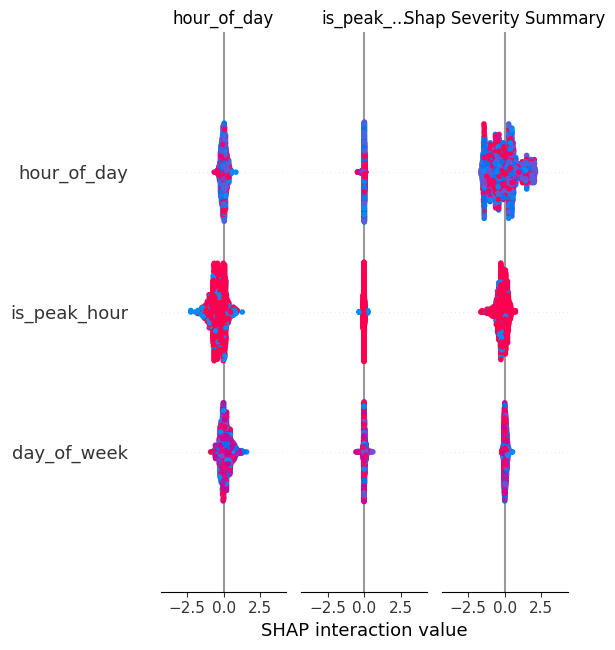
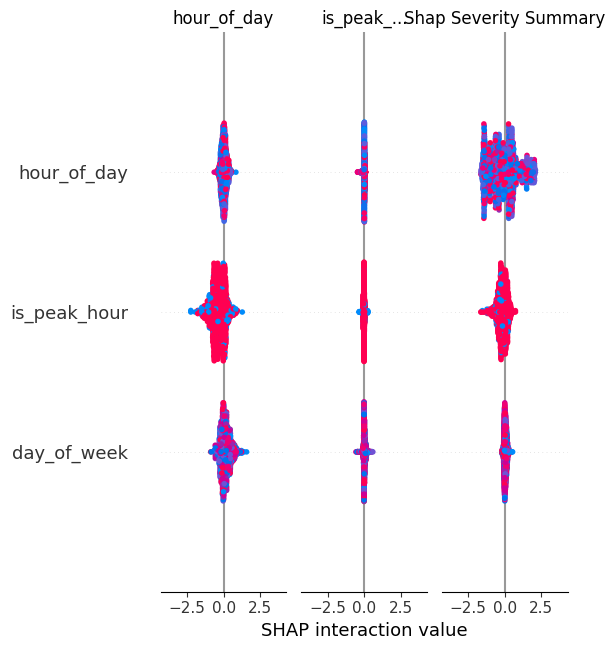
Stamp library versions into models; warn on version skew at load
Closes the last engineering-hygiene item: a pickled sklearn/xgboost model can silently break under a different library version. Each model payload now records its scikit-learn/xgboost/numpy (+python/pandas) versions; check_lib_versions() compares them to the runtime, and the API /health endpoint plus the dashboard surface a non-fatal warning on skew. Retrained to embed the versions (metrics unchanged). Adds 4 tests (19 total).

diff --git a/src/model_training.py b/src/model_training.py
@@ -9,11 +9,14 @@ Outputs (saved to models/):
 """
 
 import logging
+import sys
 from pathlib import Path
 
 import joblib
 import numpy as np
 import pandas as pd
+import sklearn
+import xgboost
 from sklearn.calibration import CalibratedClassifierCV
 from sklearn.metrics import (
     average_precision_score,
@@ -28,6 +31,46 @@ from sklearn.utils.class_weight import compute_sample_weight
 from xgboost import XGBClassifier, XGBRegressor
 
 logger = logging.getLogger(__name__)
+
+# ---------------------------------------------------------------------------
+# Reproducibility — record the library versions a model was trained with, so a
+# version-skewed environment (which can silently break or mis-load a pickle) is
+# detected rather than failing mysteriously. Stamped into every model payload;
+# checked at load time (API /health and the dashboard).
+# ---------------------------------------------------------------------------
+
+# Libraries whose version actually governs pickle/predict compatibility.
+_COMPAT_LIBS = ("scikit-learn", "xgboost", "numpy")
+
+
+def lib_versions() -> dict:
+    """Versions of the libraries that matter for model (de)serialisation."""
+    return {
+        "python": sys.version.split()[0],
+        "scikit-learn": sklearn.__version__,
+        "xgboost": xgboost.__version__,
+        "numpy": np.__version__,
+        "pandas": pd.__version__,
+        "joblib": joblib.__version__,
+    }
+
+
+def check_lib_versions(payload: dict) -> list[str]:
+    """
+    Return human-readable warnings for any compatibility-critical library whose
+    runtime version differs from what the model was trained with. Empty list
+    means the environment matches (or the model predates version stamping).
+    """
+    trained = (payload or {}).get("lib_versions") or {}
+    if not trained:
+        return ["model has no recorded training versions — retrain to embed them"]
+    current = lib_versions()
+    return [
+        f"{lib}: trained on {trained[lib]}, running {current[lib]}"
+        for lib in _COMPAT_LIBS
+        if trained.get(lib) and current.get(lib) and trained[lib] != current[lib]
+    ]
+
 
 # ---------------------------------------------------------------------------
 # Constants
@@ -203,6 +246,7 @@ def train_severity_classifier(df: pd.DataFrame, models_dir: Path) -> XGBClassifi
         "baseline_accuracy": baseline,
         "cv_accuracy_mean": float(cv_scores.mean()),   # optimistic, reference only
         "cv_accuracy_std":  float(cv_scores.std()),
+        "lib_versions":     lib_versions(),
     }
     joblib.dump(payload, models_dir / "severity_classifier.pkl")
     logger.info("Saved severity_classifier.pkl")
@@ -270,6 +314,7 @@ def train_duration_predictor(df: pd.DataFrame, models_dir: Path) -> XGBRegressor
         "baseline_mae": float(baseline_mae),
         "baseline_median": train_median,
         "lift_vs_baseline": float(lift),
+        "lib_versions": lib_versions(),
     }
     joblib.dump(payload, models_dir / "duration_predictor.pkl")
     logger.info("Saved duration_predictor.pkl")
@@ -356,6 +401,7 @@ def train_closure_predictor(df: pd.DataFrame, models_dir: Path):
         "recall":     recall,
         "precision":  precision,
         "threshold":  0.5,
+        "lib_versions": lib_versions(),
     }
     joblib.dump(payload, models_dir / "closure_predictor.pkl")
     logger.info("Saved closure_predictor.pkl")

diff --git a/tests/test_model_versioning.py b/tests/test_model_versioning.py
@@ -1,0 +1,36 @@
+"""
+test_model_versioning.py — Guard the model reproducibility check.
+
+Asserts that the version-compatibility check flags a sklearn/xgboost/numpy skew
+between a model's training environment and the runtime, matches cleanly when they
+agree, and is explicit when a model predates version stamping.
+"""
+
+import sys
+from pathlib import Path
+
+sys.path.insert(0, str(Path(__file__).resolve().parents[1] / "src"))
+
+from model_training import check_lib_versions, lib_versions
+
+
+def test_matching_versions_produce_no_warnings():
+    payload = {"lib_versions": lib_versions()}
+    assert check_lib_versions(payload) == []
+
+
+def test_mismatch_is_flagged_for_compat_libs():
+    bad = lib_versions() | {"xgboost": "0.0.1"}
+    warns = check_lib_versions({"lib_versions": bad})
+    assert len(warns) == 1 and "xgboost" in warns[0]
+
+
+def test_noncompat_lib_drift_is_ignored():
+    # pandas isn't pickle-compat-critical, so a pandas skew must NOT warn.
+    drift = lib_versions() | {"pandas": "0.0.1"}
+    assert check_lib_versions({"lib_versions": drift}) == []
+
+
+def test_unstamped_model_is_called_out():
+    warns = check_lib_versions({})
+    assert warns and "no recorded training versions" in warns[0]

diff --git a/api/main.py b/api/main.py
@@ -33,7 +33,7 @@ from feature_engineering import (  # noqa: E402
     CAUSE_SEVERITY_WEIGHT, _SEMANTIC_MAP, _VEH_TYPE_MAP, _VEH_TYPE_ORDER,
     extract_semantic_type,
 )
-from model_training import SEVERITY_INVERSE_MAP  # noqa: E402
+from model_training import SEVERITY_INVERSE_MAP, check_lib_versions  # noqa: E402
 from outcomes_log import log_decision  # noqa: E402
 from history_features import history_features  # noqa: E402
 from resource_recommender import clearance_range, recommend  # noqa: E402
@@ -64,7 +64,15 @@ class Event(BaseModel):
 
 @app.get("/health")
 def health():
-    return {"status": "ok", "closure_model": _clo is not None}
+    # Flag any model trained under a different sklearn/xgboost/numpy than the
+    # runtime — version skew can silently break a pickled model.
+    warns = check_lib_versions(_clf) + (check_lib_versions(_clo) if _clo else [])
+    return {
+        "status": "ok",
+        "closure_model": _clo is not None,
+        "model_versions": _clf.get("lib_versions"),
+        "version_warnings": warns,
+    }
 
 
 @app.post("/event")

diff --git a/dashboard/pages/2_Predict_Event.py b/dashboard/pages/2_Predict_Event.py
@@ -24,7 +24,7 @@ from feature_engineering import (
     extract_semantic_type,
 )
 from history_features import corridor_list, history_features
-from model_training import FEATURES, SEVERITY_COLORS, SEVERITY_INVERSE_MAP
+from model_training import FEATURES, SEVERITY_COLORS, SEVERITY_INVERSE_MAP, check_lib_versions
 from resource_recommender import clearance_range
 from utils import ALL_CAUSES, ALL_ZONES, CAUSE_DISPLAY, get_nearest_station, is_peak_hour
 
@@ -67,6 +67,14 @@ clf_model = clf_pkg["model"]
 dur_model = dur_pkg["model"]
 clo_model = clo_pkg["model"] if clo_pkg else None
 all_corridors = corridor_list()
+
+# Warn (don't fail) if the models were trained under different library versions
+# than this environment — version skew can silently corrupt pickled-model output.
+_ver_warns = check_lib_versions(clf_pkg) + (check_lib_versions(clo_pkg) if clo_pkg else [])
+_ver_warns = [w for w in _ver_warns if "no recorded training versions" not in w]
+if _ver_warns:
+    st.warning("⚠️ Model/runtime library mismatch — predictions may be unreliable: "
+               + "; ".join(_ver_warns) + ". Retrain with `python src/model_training.py`.")
 
 st.info(
     "**What each input drives:** *Cause / description / vehicle / time* feed the "

diff --git a/README.md b/README.md
@@ -129,7 +129,8 @@ smartflow/
 │   ├── test_history_features.py # Asserts inference uses real history, not a constant
 │   ├── test_roster_optimizer.py # Asserts allocation conserves demand & triages by priority
 │   ├── test_event_planner.py  # Asserts confidence backoff & obstruction handling
-│   └── test_learning_loop.py  # Asserts the loop reads outcomes back & records drift
+│   ├── test_learning_loop.py  # Asserts the loop reads outcomes back & records drift
+│   └── test_model_versioning.py # Asserts version-skew detection for pickled models
 ├── data/
 │   ├── raw/                   # Place events.csv here
 │   └── processed/             # Auto-generated outputs
@@ -198,7 +199,7 @@ docker run -p 8501:8501 smartflow      # → http://localhost:8501
 ### Tests & CI
 
 ```bash
-pytest tests/        # 15 tests: leakage, history lookup, optimizer, planner, learning loop
+pytest tests/        # 19 tests: leakage, history lookup, optimizer, planner, learning loop, versioning
 ```
 
 [GitHub Actions](.github/workflows/ci.yml) runs the test suite **and** a Docker image build on every push / PR.
@@ -239,6 +240,7 @@ pytest tests/        # 15 tests: leakage, history lookup, optimizer, planner, le
 - **Honest cluster footprints** — clusters render as fixed-radius circles around the centroid, not convex hulls. Hulls over road-aligned incidents produce giant triangles that overstate the affected area.
 - **DBSCAN over k-means** — no need to pre-specify cluster count; naturally handles noise; 200 m haversine radius tuned to Bengaluru block size.
 - **Median over mean for clearance** — 9.7% of tickets were never properly closed, inflating the mean to 552 min. Median (57 min) reflects real operational close-time.
+- **Models record the versions they were trained with** — a pickled sklearn/xgboost model can silently break or mis-load under a different library version. Each model payload stamps its `scikit-learn` / `xgboost` / `numpy` (and python/pandas) versions; `check_lib_versions()` compares them to the runtime and the API `/health` endpoint and the dashboard surface a non-fatal warning on skew, so a version-mismatched environment is flagged rather than failing mysteriously.
 - **The post-event learning loop is closed in code, not just logged** — the brief names "no post-event learning system" as a core pain. Logging alone is an open loop, so `learning_loop.py` reads `decisions_log.csv` back to measure recommendation-vs-actual accuracy (clearance MAE + severity accuracy), re-fits the models, and appends a snapshot to `metrics_history.csv`. Run on a schedule, that file makes **drift across retrains** visible on the Feedback Loop page — the difference between a loop that's real and one that's merely scaffolded. (Honest scope: the re-fit reads the canonical feature set, which grows as the pipeline ingests resolved events; a raw log row lacks the engineered features to train on directly.)
 
 ---